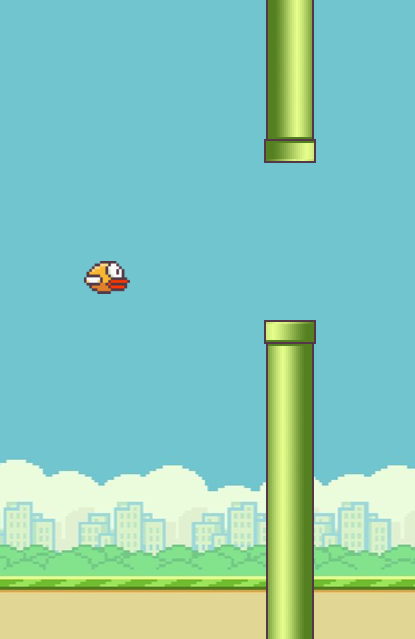
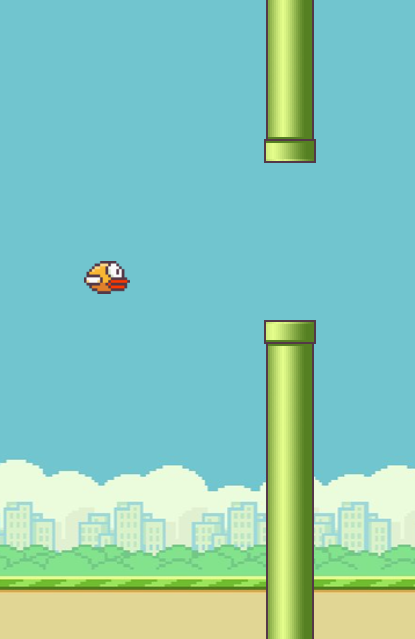
Polishing bird game graphics

Changed region(s): [[0.6361, 0.0, 0.7518, 0.2676]]

diff --git a/app/routes/app._index.jsx b/app/routes/app._index.jsx
@@ -309,7 +309,7 @@ export default function Index() {
               <GameSection
                 game="Bird Game"
                 description="Score 5 to win"
-                source="https://i.imgur.com/GMitNo2.png"
+                source="https://i.imgur.com/jfa8UQt.png"
                 width="275"
                 height="315"
                 gap="100"

diff --git a/app/routes/storeUpdates.js b/app/routes/storeUpdates.js
@@ -4,7 +4,7 @@ import { unauthenticated } from "../shopify.server";
 import { getDateTimeXDaysFromNow } from "./applyCoupon";
 
 const PRIVATE_AUTH_TOKEN = process.env.PRIVATE_AUTH_TOKEN;
-const ORDER_GRACE_PERIOD = 0;//1;
+const ORDER_GRACE_PERIOD = 1;
 const UPDATE_SALES_TASK = "UPDATE_SALES"
 
 export const action = async ({ request }) => {

diff --git a/extensions/pop-games-extension/assets/pop-up.js b/extensions/pop-games-extension/assets/pop-up.js
@@ -16,7 +16,7 @@ var height = 6; //number of guesses
 var width = 5; //length of the word
 
 var row = 0; //current guess (attempt #)
-var col = 0; //current letter for that attempt
+var col = 0; //current letter for attempt
 
 var gameOver = false;
 
